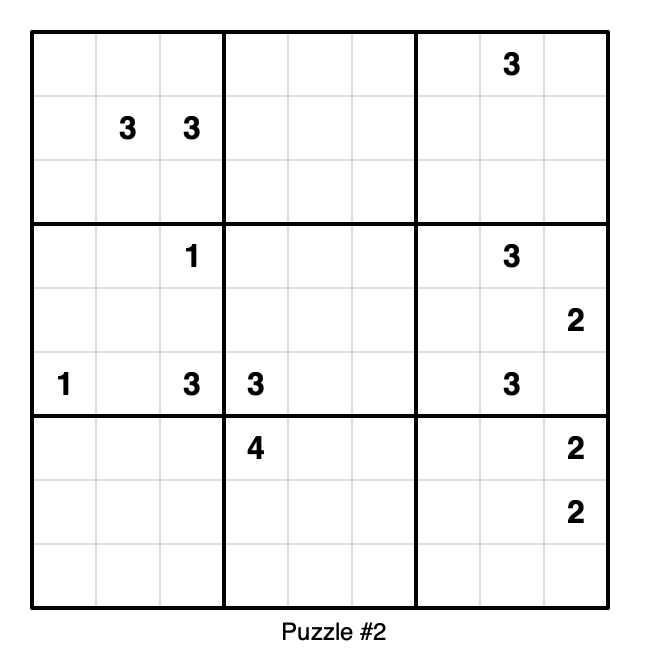
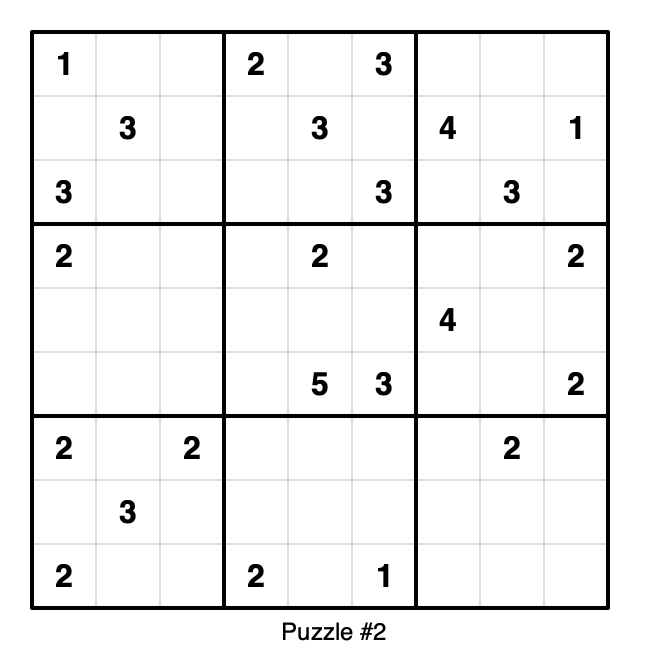
Added origins info.

diff --git a/ORIGINS_SEARCH.md b/ORIGINS_SEARCH.md
@@ -1,0 +1,75 @@
+# Sudoku Mine Origin Search
+
+## Topline
+
+- Current working conclusion: the earliest known **exact** `9x9` / `3 mines in every row, column, and 3x3 box` version located so far is **Cross+A** in **late 2012**. That version is understood to be **copied from an unknown earlier original**.
+- The format was also invented independently by:
+  - **chaotic_iak**, who published a **2-mine jigsaw version** in **2011** and has confirmed this was an independent invention.
+  - **James Dewar (JDK)** in **2024**.
+- Related puzzles combining **Sudoku** and **Minesweeper-style clue mechanics** appear to go back to at least **2006**, although those earlier examples are not yet the exact `9x9 / 3-mine` format.
+- In this note, the earliest **concretely dated** related examples pinned so far are **May 4, 2007** (`3 Star Sudoku`) and **March 14, 2010** (`Minesweeper Sudoku` in Logic Masters India).
+
+## Exact Format: What Is Confirmed So Far
+
+- **Cross+A / Ilya Morozov**: earliest known public lead so far for the exact modern format is **late 2012**.
+- Cross+A is **not believed to be the original source**; it is treated as a copied version from an unknown earlier puzzle.
+- Ilya Morozov recalled that he may have seen the puzzle on the now-defunct German site **Sachsentext.de** by **Uwe Wiedemann**, likely around **2012**, but archival searching has **not yet confirmed** the exact puzzle there.
+
+## Independent Reinventions
+
+- **chaotic_iak** published related **Minesweeper (Sudoku)** puzzles in **2011**:
+  - archive page: [chaoticiak.github.io/logic.html](https://chaoticiak.github.io/logic.html#minesweepersudoku-2011-03-bmpc1-8)
+  - these use essentially the same hybrid idea, but with a **jigsaw / irregular-region** structure and a **2-mine** version rather than the exact `9x9 / 3-mine` format.
+- **James Dewar (JDK)** independently created the format in **2024**.
+
+## Earlier Related Sudoku + Minesweeper Hybrids
+
+- **Logic Masters India**, **March 14, 2010**:
+  - a puzzle explicitly called **Minesweeper Sudoku** appears in the **Sudoku Mock Test 16** instruction booklet.
+  - page: [logicmastersindia.com/mock16](https://logicmastersindia.com/mock16/)
+  - PDF: [sudokumocktest16ib.pdf](https://logicmastersindia.wordpress.com/wp-content/uploads/2014/01/sudokumocktest16ib.pdf)
+- **Sachsentext.de** precursor formats:
+  - **3 Star Sudoku**, archived **May 4, 2007**: [archive](https://web.archive.org/web/20070504185101/http://www.sachsentext.de:80/en/3star1.htm)
+  - **Stardust Sudoku**, visible in archive by **September 29, 2010**: [archive image](https://web.archive.org/web/20100929075130/http://sachsentext.de/gif/stardust_sudoku1.png)
+  - these are important precursors because they use the idea of placing a fixed number of marked cells in Sudoku structures, but they are **not** the exact Minesweeper-clue format.
+- **Sudoku Xtra** shows that Minesweeper-style puzzle ideas were actively discussed in Sudoku communities by **2009-2010**:
+  - **November 19, 2009**: [New puzzles for issue 2](https://www.sudokuxtra.com/forum/read.php?2,16) refers to `Mosaic` as essentially Minesweeper with pictures.
+  - **January 3, 2010**: [Community Puzzles](https://www.sudokuxtra.com/forum/read.php?2,91) describes `Big Foot` as a "minesweeper-like" idea.
+  - **February 25, 2010**: [Sudoku Xtra Issue 4 is now online!](https://www.sudokuxtra.com/forum/read.php?2,207) lists `Mosaic (Minesweeper picture puzzle)`.
+
+## German-Origin Search: Current Status
+
+- **forum.logic-masters.de**:
+  - searches for obvious names and descriptions such as `Minensudoku`, `Minesweeper Sudoku`, `Minedoku`, and `3 Minen` did **not** produce a confirmed hit for the exact puzzle.
+  - search page: [forum.logic-masters.de/search.php](https://forum.logic-masters.de/search.php)
+- **Sachsentext.de**:
+  - the archived site produced useful **precursors**, but **not** a confirmed archived instance of the exact `9x9 / 3-mine` puzzle.
+
+## Broader Forum Sweep: Current Negative Evidence
+
+The following communities were searched on their live sites, preserved mirrors, or Wayback archives without finding a confirmed pre-2012 post for the exact format:
+
+- **SudoCue forum**: [sudocue.net/forum](https://www.sudocue.net/forum/)
+- **Daily Sudoku forum**: [dailysudoku.com/sudoku/forums](https://dailysudoku.com/sudoku/forums/)
+- **Sudoku Players' Forums** (`sudoku.com/boards`) archived variants board:
+  - [archive](https://web.archive.org/web/20070709090919/http://www.sudoku.com:80/boards/viewforum.php?f=18&sid=ff7eff9f8416ddd930a51aac98c47807)
+- **Sudoku Programmers / setbb** archived exotic board:
+  - [archive](https://web.archive.org/web/20070909162929/http://www.setbb.com:80/sudoku/viewforum.php?f=5&sid=c315af0d7538632d4872dadeda86a6f7&mforum=sudoku)
+- **djape** archived `Other` board:
+  - [archive](https://web.archive.org/web/20060303035238/http://www.djape.net/sudoku/forum/viewforum.php?f=4&sid=636180bfe13b48e8c66b4623d17ea656)
+- **sudoku.org.uk** forums:
+  - [archive forum index](https://web.archive.org/web/20071214143402/http://www.sudoku.org.uk:80/SudokuForum.asp)
+- **Sudoku Assistenten / sudoku.frihost.net**:
+  - [archive](https://web.archive.org/web/20060603235128/http://www.sudoku.frihost.net:80/forum/)
+- **YouPlay** number-puzzle forum:
+  - [archive forum index](https://web.archive.org/web/20070515101741/http://www.youplay.com:80/forums/)
+  - [number puzzles board](https://web.archive.org/web/20080113114922/http://www.youplay.com/forums/7_0.html)
+
+These negative results matter because several of these were major Sudoku-variant communities in the `2004-2011` period.
+
+## Best Remaining Leads
+
+- **Sudoku World** (`Yahoo Groups`) remains a strong candidate because it was cited elsewhere as an early source of variant ideas, but it is difficult to search in surviving public archives.
+- **forsmarts** also remains worth checking more deeply for the same reason.
+- The most important open question is still:
+  - **Where is the earliest documented exact `9x9 / 3-mine` version before Cross+A in late 2012?**
